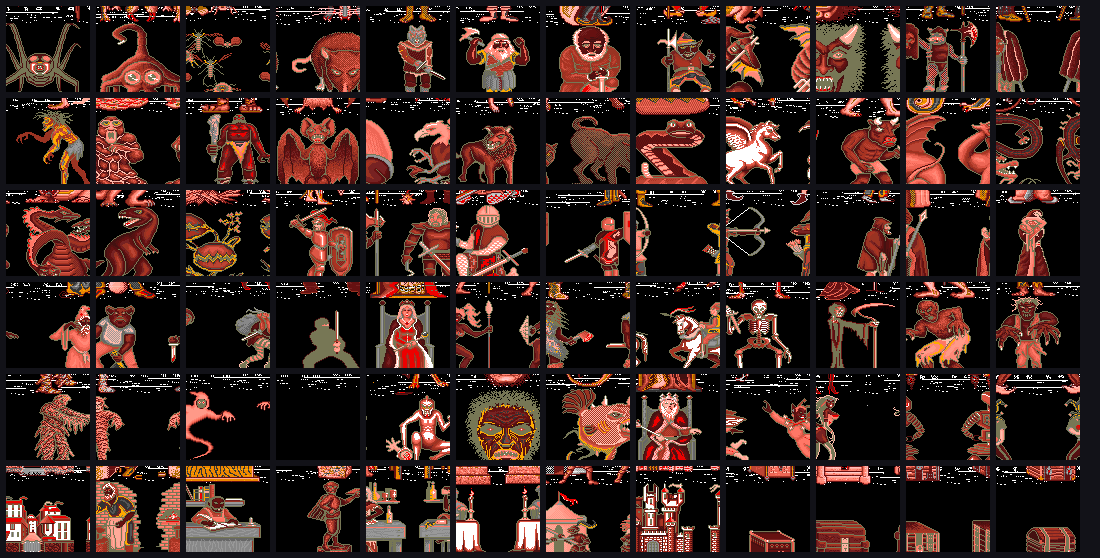
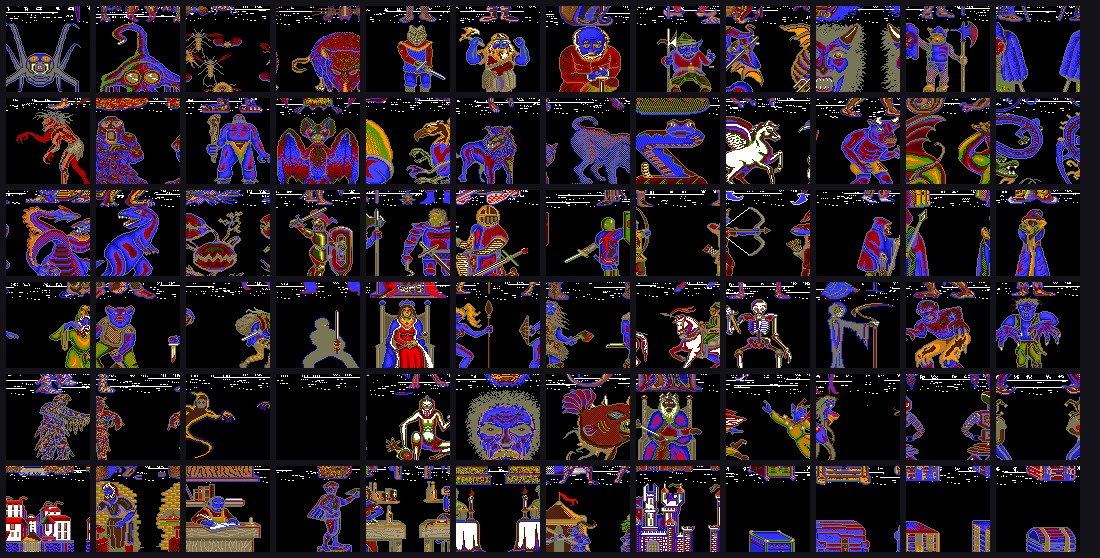
MSX 火炬補上動畫影格；修掉 Amiga 怪物總覽圖的顏色
## MSX 火炬

原版每個位置只有一張貼圖。查過 sub_E3E 那支查表貼圖（唯一還沒攤開的），
畫的是地面條不是火焰，所以「沒有動畫組」是素材的事實不是解碼漏了。

remake 產生三張影格：把火焰左右各位移一像素，底部燈座不動，沒有新增
任何像素。這是加上去的效果不是還原，程式與 README 都標明了。

兩個踩過的坑寫進註解：

- 位移範圍要取「有內容那一段」的上面六成，不是整張圖的上面六成。
  貼圖四周常有整列透空，拿整張的比例去切會切在空白上，三張影格
  完全相同，而畫面上只是「火炬不會動」。
- 驗收要問「地圖上存不存在會動的位置」，不是「這一格會不會動」。
  先前在 (8,0) 面東驗，那格根本看不到 MSX 火炬，於是得出「火炬壞了」
  的錯誤結論並往解碼那邊查。實際掃過 1024 個視角有 316 個看得到在動。

## Amiga 怪物的顏色

先前用 throw.32 的調色盤，那 31 格是一條紅色漸層，整批怪物變成同一個紅。
改用 book.32（十一個候選裡畫出來最自然的：紅披風、藍衣、灰甲、橘靴），
標為假設 —— 真正的來源還沒定位。

順帶確認的兩件事：`.anm` 的 48 bytes 檔頭是**每個影格的矩形表**（FF 結尾），
動畫影格本來就在檔案裡；調色盤不在 `.anm`（檔頭與尾端 32 個 word 的
12-bit 值域檢驗整個檔案都不通過）。像素是 5 平面沒錯 —— 逐格解完
11,532／11,590 bytes，4 平面差兩千多。

diff --git a/internal/assets/msx/scene.go b/internal/assets/msx/scene.go
@@ -60,10 +60,14 @@ var scene = map[int]Piece{
 // `154×64 從 (0,320)`，換算成素材表內是 (0,64)）。
 var background = Piece{0, 64, ViewW, ViewH, 0, 0}
 
+// TorchFrames 是每個火炬位置的影格數，見 flicker。
+const TorchFrames = 3
+
 // torch 是火炬，索引照 DOS 的槽位除以四（左 0-2、右 3-5、正面 6-8）。
 //
-// **MSX 的火炬不會動**：整批貼圖裡每個位置只有一張，沒有 DOS 那種
-// 「底圖 ＋ 三張火焰」的動畫組。少的是素材不是解碼。
+// **原版每個位置只有一張**：整批貼圖裡沒有 DOS 那種「底圖 ＋ 三張火焰」
+// 的動畫組，`sub_E3E` 那支查表貼圖畫的是地面條不是火焰。少的是素材
+// 不是解碼 —— 動畫影格由 flicker 產生。
 var torch = map[int]Piece{
 	0: {420, 0, 21, 22, 0, 14},    // 左 深度0
 	1: {420, 22, 14, 10, 35, 27},  // 左 深度1
@@ -74,6 +78,57 @@ var torch = map[int]Piece{
 
 // SceneID 是四套室內場景的素材表 id。
 var SceneID = []uint16{0x2020, 0x2021, 0x2022, 0x2023}
+
+// flicker 由一張火炬做出動畫影格。
+//
+// **原版沒有這個。** 做法是把火焰（上半部）整體左右各位移一個像素，
+// 底部的燈座不動；沒有新增任何像素，只是把既有的挪位置。這是 remake
+// 自己加的效果，不是還原 —— 標在這裡是因為「看起來像原版」正是最容易
+// 被誤當成考證結果的那種東西。
+//
+// 位移量刻意只有一像素：火炬在視圖裡最大也才 21×22，再多就變成整支
+// 火把在晃，那不是火在燒。
+func flicker(src *image.Paletted, dx int) *image.Paletted {
+	if src == nil || dx == 0 {
+		return src
+	}
+	b := src.Bounds()
+	w, h := b.Dx(), b.Dy()
+	out := image.NewPaletted(image.Rect(0, 0, w, h), src.Palette)
+	// 火焰佔**有內容的那一段**上面六成，不是整張圖的上面六成 ——
+	// 貼圖四周常有整列透空，拿整張的比例去切會切在空白上，
+	// 位移出來的三張完全相同，而畫面上只是「火炬不會動」。
+	top, bot := h, -1
+	for y := 0; y < h; y++ {
+		for x := 0; x < w; x++ {
+			if src.ColorIndexAt(b.Min.X+x, b.Min.Y+y) != 0 {
+				if y < top {
+					top = y
+				}
+				bot = y
+				break
+			}
+		}
+	}
+	if bot < top {
+		return src
+	}
+	flame := top + (bot-top+1)*6/10
+	for y := 0; y < h; y++ {
+		shift := 0
+		if y < flame {
+			shift = dx
+		}
+		for x := 0; x < w; x++ {
+			sx := x - shift
+			if sx < 0 || sx >= w {
+				continue // 移出去的位置留透空
+			}
+			out.SetColorIndex(x, y, src.ColorIndexAt(b.Min.X+sx, b.Min.Y+y))
+		}
+	}
+	return out
+}
 
 // Scene 從一張素材表切出第一人稱要用的貼圖。
 //
@@ -102,11 +157,16 @@ func Scene(sheet *image.Paletted) (walls, torches []*image.Paletted,
 		walls[i] = cut(p)
 		place[i] = image.Pt(p.DX, p.DY)
 	}
-	torches = make([]*image.Paletted, 9)
-	torchPlace = make([]image.Point, 9)
+	// 每個位置佔 TorchFrames 格，與 DOS 的排法一致（一格一組影格），
+	// 這樣火炬的相位邏輯不必為 MSX 另寫一套。
+	torches = make([]*image.Paletted, 9*TorchFrames)
+	torchPlace = make([]image.Point, 9*TorchFrames)
 	for i, p := range torch {
-		torches[i] = cut(p)
-		torchPlace[i] = image.Pt(p.DX, p.DY)
+		base := cut(p)
+		for f, dx := range [TorchFrames]int{0, 1, -1} {
+			torches[i*TorchFrames+f] = flicker(base, dx)
+		}
+		torchPlace[i*TorchFrames] = image.Pt(p.DX, p.DY)
 	}
 	return walls, torches, place, torchPlace, cut(background)
 }

diff --git a/internal/ui/msxtorch_test.go b/internal/ui/msxtorch_test.go
@@ -1,0 +1,49 @@
+package ui_test
+
+import (
+	"crypto/sha256"
+	"testing"
+
+	"github.com/wicanr2/mm2_cht/internal/game"
+	"github.com/wicanr2/mm2_cht/internal/ui"
+	"github.com/wicanr2/mm2_cht/internal/view"
+)
+
+// MSX 的火炬影格是 remake 產生的（原版每個位置只有一張），所以要有測試
+// 守著「相位真的換了圖」—— 沒換的話畫面照樣正常，只是火炬不會動，
+// 而那看起來像「原版本來就這樣」。
+//
+// 判準是「**地圖上存在**會動的位置」不是「這一格會動」：多數格子看不到
+// 火炬，挑錯格子會得到「火炬壞了」這個錯誤結論（踩過）。
+func TestMSXTorchPhasesDiffer(t *testing.T) {
+	s := load(t)
+	for i := 0; i < 4 && (s.Assets.Town == nil || s.Assets.Town.Platform != view.PlatformMSX); i++ {
+		s.Key(ui.KeyPlatform)
+		s.Mode = ui.ModeExplore
+	}
+	if s.Assets.Town == nil || s.Assets.Town.Platform != view.PlatformMSX {
+		t.Skip("沒有 MSX 素材")
+	}
+	moving := 0
+	for y := 0; y < 16; y++ {
+		for x := 0; x < 16; x++ {
+			for f := 0; f < 4; f++ {
+				s.Game.World.X, s.Game.World.Y, s.Game.World.Face = x, y, game.Facing(f)
+				seen := map[[32]byte]bool{}
+				for p := 0; p < 3; p++ {
+					scr := view.NewScreen()
+					view.DrawFirstPersonAt(scr, s.Game.World, s.Assets.Town, p)
+					scr.Flush()
+					seen[sha256.Sum256(scr.Hi.Pix)] = true
+				}
+				if len(seen) > 1 {
+					moving++
+				}
+			}
+		}
+	}
+	if moving == 0 {
+		t.Fatal("整張地圖沒有一個視角的火炬會動")
+	}
+	t.Logf("1024 個視角裡有 %d 個看得到火炬在動", moving)
+}

diff --git a/tools/amiga32.py b/tools/amiga32.py
@@ -104,9 +104,14 @@ def anm(d: bytes):
         d[2], d[3]        影格寬高（72 個檔全部是 84×86）
         0x31 + d[0x30]−1  像素起點
 
-    調色盤不在檔案裡：場景檔的 32 格只有前 16 格有色，後 16 格是黑的，
-    留給怪物在執行時另外設。`throw.32`（戰鬥用）那份 31 格有色，
-    拿它畫出來的顏色是對的。
+    **調色盤不在檔案裡**，也不在 `.anm` 的檔頭或尾端（32 個 word 的
+    12-bit 值域檢驗整個檔案都不通過）。場景檔的 32 格只有前 16 格有色，
+    後 16 格留給怪物在執行時另外設 —— 設的來源還沒定位。
+
+    總覽圖用 `book.32` 那份（31 格有色），是十一個候選裡畫出來最自然的
+    一個（紅披風、藍衣、灰甲、橘靴）。**這是假設不是已證實**：
+    `throw.32` 的 31 格是一條紅色漸層，整批怪物會變成同一個紅，
+    先前就是拿它畫的。
     """
     w, h = d[2], d[3]
     if not (8 <= w <= 320 and 8 <= h <= 200):
@@ -138,7 +143,8 @@ def main() -> None:
 
         outdir = sys.argv[2]
         os.makedirs(outdir, exist_ok=True)
-        pal = parse(open("workplace/amiga/throw.32", "rb").read())["colors"]
+        palfile = os.environ.get("ANM_PAL", "workplace/amiga/book.32")
+        pal = parse(open(palfile, "rb").read())["colors"]
         n = 0
         for path in sys.argv[3:]:
             got = anm(open(path, "rb").read())

diff --git a/internal/assets/msx/msx_test.go b/internal/assets/msx/msx_test.go
@@ -73,3 +73,36 @@ func TestNonImageRejected(t *testing.T) {
 		t.Fatal("常駐引擎被當成圖解出來了")
 	}
 }
+
+// 火炬的三張影格必須真的不一樣。相同的話畫面照樣正常，只是火炬不會動 ——
+// 而那看起來像「原版本來就這樣」。
+func TestTorchFramesDiffer(t *testing.T) {
+	d := open(t)
+	pal, _ := d.Palette()
+	sheet, err := d.Image(msx.SceneID[0], pal)
+	if err != nil {
+		t.Fatal(err)
+	}
+	_, torches, _, _, _ := msx.Scene(sheet)
+	same := 0
+	for slot := 0; slot < len(torches)/msx.TorchFrames; slot++ {
+		a := torches[slot*msx.TorchFrames]
+		if a == nil {
+			continue
+		}
+		for f := 1; f < msx.TorchFrames; f++ {
+			b := torches[slot*msx.TorchFrames+f]
+			if b == nil {
+				t.Errorf("槽 %d 影格 %d 是 nil", slot, f)
+				continue
+			}
+			if string(a.Pix) == string(b.Pix) {
+				same++
+				t.Errorf("槽 %d 的影格 %d 與影格 0 完全相同", slot, f)
+			}
+		}
+	}
+	if same == 0 {
+		t.Logf("每個火炬位置的 %d 張影格都不同", msx.TorchFrames)
+	}
+}

diff --git a/cmd/mm2shots/main.go b/cmd/mm2shots/main.go
@@ -56,6 +56,17 @@ var shots = []shot{
 			s.Assets.Town.Style = view.StyleModern
 		}
 	}},
+	{"01g-msx-torch", "MSX 的火炬三個相位（動畫影格是 remake 產生的，原版只有一張）", func(s *ui.Session) {
+		// (0,0) 面北看得到火炬 —— 起點那格看不到，挑錯格子會拍到
+		// 「火炬沒接上」的假象。
+		s.Game.World.X, s.Game.World.Y = 0, 0
+		s.Game.World.Face = game.North
+		s.Key(ui.KeyPlatform)
+		s.Mode = ui.ModeExplore
+		s.Key(ui.KeyPlatform)
+		s.Mode, s.Lines = ui.ModeExplore, nil
+		s.TorchPhase = 1
+	}},
 	{"01f-first-person-msx", "MSX2 版素材：整套場景是一張 462×128 的素材表，每面牆是表裡的一塊", func(s *ui.Session) {
 		s.Game.World.X, s.Game.World.Y = 8, 0
 		s.Game.World.Face = game.East

diff --git a/internal/view/firstperson.go b/internal/view/firstperson.go
@@ -172,8 +172,8 @@ func (t *TownSet) size(im *image.Paletted) (int, int) {
 // view 是這一套素材自己的視圖大小，比 FPW×FPH 小的話整幅置中。
 func NewPlacedSet(p Platform, walls, torches []*image.Paletted,
 	place, torchPlace []image.Point,
-	bg *image.Paletted, clear uint8, view image.Point) *TownSet {
-	t := NewSceneSet(p, walls, nil, torches, nil, clear, 1)
+	bg *image.Paletted, clear uint8, stride int, view image.Point) *TownSet {
+	t := NewSceneSet(p, walls, nil, torches, nil, clear, stride)
 	t.place = place
 	t.torchPlace = torchPlace
 	t.origin = image.Pt((FPW-view.X)/2, (FPH-view.Y)/2)

diff --git a/internal/ui/session.go b/internal/ui/session.go
@@ -1349,7 +1349,7 @@ func loadMSXTown(dir string) (*view.TownSet, error) {
 		}
 		walls, torches, place, torchPlace, bg := msx.Scene(sheet)
 		return view.NewPlacedSet(view.PlatformMSX, walls, torches, place, torchPlace,
-			bg, 0, image.Pt(msx.ViewW, msx.ViewH)), nil
+			bg, 0, msx.TorchFrames, image.Pt(msx.ViewW, msx.ViewH)), nil
 	}
 	return nil, fmt.Errorf("msx: %s 底下的 .dsk 都讀不出場景素材", dir)
 }

diff --git a/docs/screenshots/README.md b/docs/screenshots/README.md
@@ -22,6 +22,7 @@ go run ./cmd/mm2shots -data workplace/orig/MM2 -out docs/screenshots
 | `01c-first-person-amiga.png` | 換成 **Amiga 版素材**（按 `F6`）。32 色，走同一套幾何 —— 兩個平台的牆面張數與排列一一對應。火炬少了燈桿底圖，那是素材本身的差異：Amiga 每格只有三張火焰 |
 | `01d-first-person-amiga-modern.png` | Amiga 素材加 Scale3x。`F5` 與 `F6` 是正交的，四種組合都成立 |
 | `01f-first-person-msx.png` | 換成 **MSX2 版素材**。整套場景是一張 462×128 的素材表，每一面牆是表裡的一塊矩形，落點另有一張表 —— 原版靠 VDP 的矩形搬移組畫面，這裡直接切圖來貼。視圖只有 154×64（DOS 是 208×120），所以整幅置中|
+| `01g-msx-torch.png` | MSX 的火炬。**動畫影格是 remake 產生的** —— 原版每個位置只有一張貼圖，這裡把火焰左右各位移一像素做出三張，沒有新增任何像素 |
 | `01e-first-person-pack.png` | 烘好的高解析素材包（`cmd/mm2modern`）。與 `01b` 畫的是同一件事，差別在它是檔案 —— 之後可以整批換成重畫的美術 |
 | `02-cast.png` | 施法選單。法術名、等級與說明都是譯文，說明接在清單下面 |
 | `03-items.png` | 物品選單。已裝備六格加背包六格，可以裝穿脫、可以使用 |
